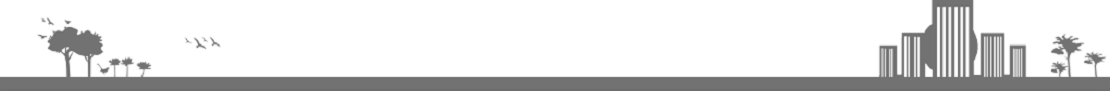
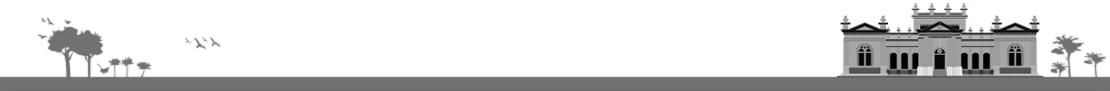
footer add

Changed region(s): [[0.7351, 0.0, 0.9495, 0.8571]]

diff --git a/index.html b/index.html
@@ -757,8 +757,7 @@
                     <span>
                       কারিগরি সহায়তায়:
                       <a href="//a2i.gov.bd" title=""><img style="height: 40px; vertical-align: baseline;"
-                          src="//file-rajshahi.portal.gov.bd/media/central/themes/theme-default/img/np-logo-set.png"
-                          alt="a2i"></a>
+                          src="assets/img/technical-assistance.png" alt="a2i"></a>
                     </span>
                   </p>
                 </div>
